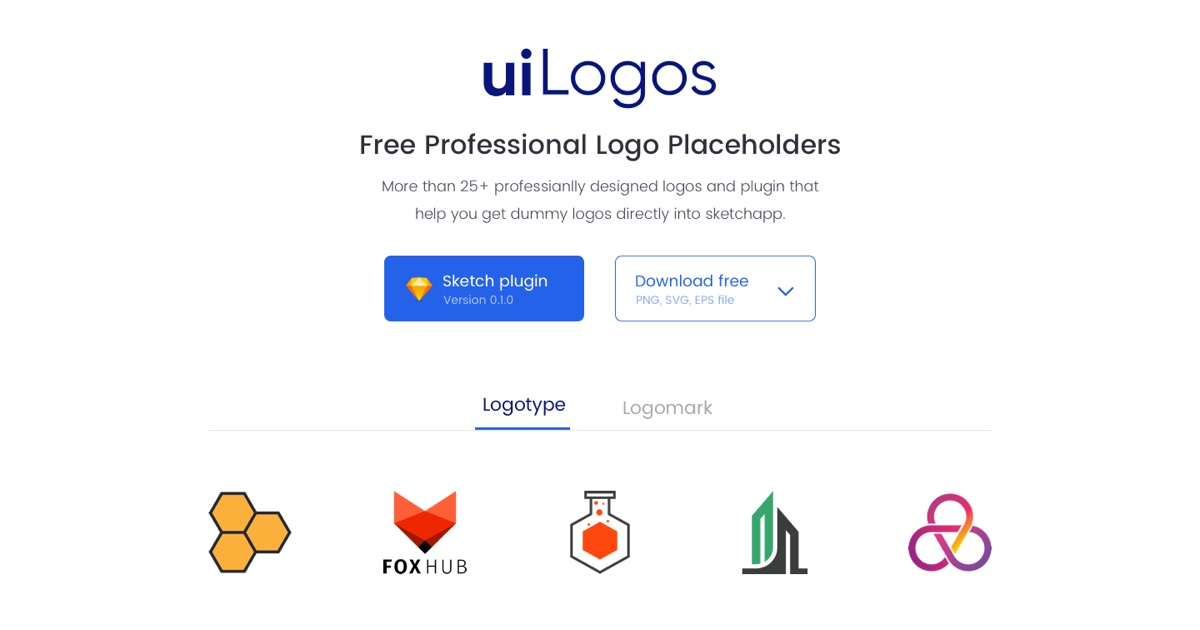
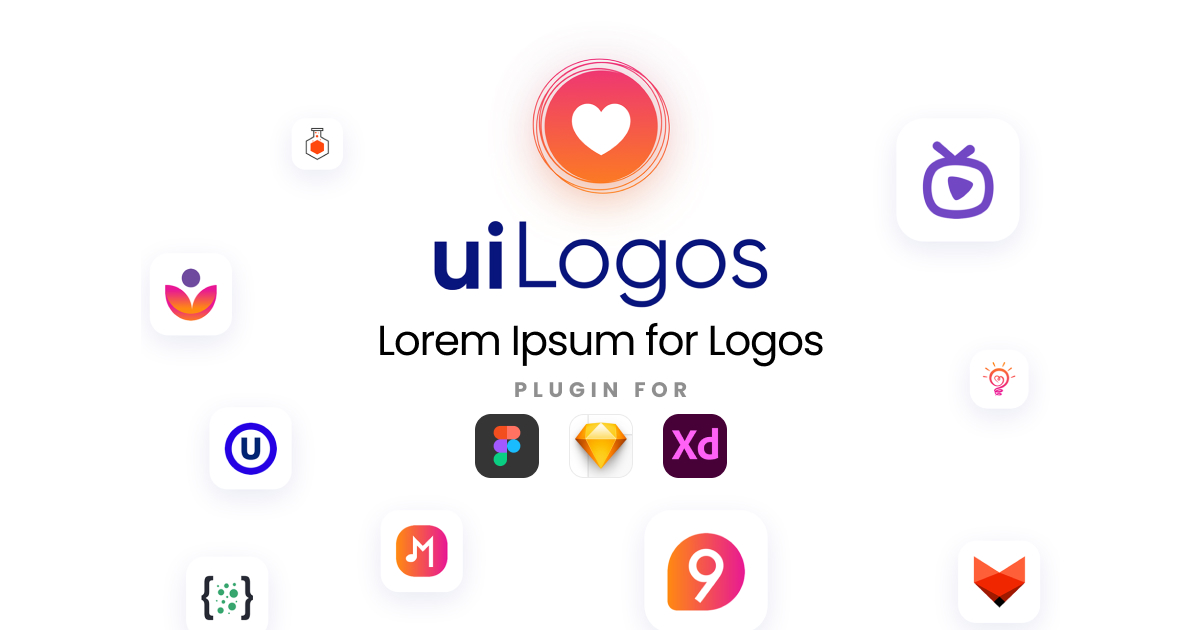
preview update

diff --git a/index.html b/index.html
@@ -4,22 +4,22 @@
 <head>
 
   <meta name="description"
-    content="Sketch Plugin - Insert professionally designed dummy logos of company directly into SketchApp | Download free Professional logos for design mockup" />
+    content="Figma, XD and Sketch Plugin - Insert professionally designed dummy logos of company directly into SketchApp | Download free Professional logos for design mockup" />
   <meta charset="utf-8" />
 
   <meta name="viewport" content="width=device-width, initial-scale=1.0, minimum-scale=1.0" />
-  <meta name="keywords" content="uilogos, logos, sketchapp, sketch, ui, plugin, sketchplugin, realvjy" />
-  <meta property="og:image" content="https://vijayverma.co/uilogos/img/preview.jpg" />
-  <meta property="og:title" content="uiLogos - Free logos for mockup | Sketch Plugin" />
+  <meta name="keywords" content="uilogos, logos, sketchapp, sketch,figma plugin, ui, plugin, sketchplugin, realvjy" />
+  <meta property="og:image" content="https://uilogos.co/img/preview.jpg" />
+  <meta property="og:title" content="uiLogos - Lorem Ipsum for Logos | Figma | Sketch | XD Plugin" />
   <meta property="og:type" content="webiste" />
   <meta property="og:url" content="https://uilogos.co" />
-  <meta property="og:description" content="Sketch plugin - insert professionally designed logos in design" />
+  <meta property="og:description" content="uiLogos - Lorem Ipsum for Logos | Figma | Sketch | XD Plugin" />
 
   <meta name="twitter:card" content="summary_large_image">
   <meta name="twitter:url" content="https://uilogos.co">
-  <meta name="twitter:title" content="uiLogos - Free logos for mockup | Sketch Plugin">
+  <meta name="twitter:title" content="uiLogos - Lorem Ipsum for Logos | Figma | Sketch | XD Plugin">
   <meta name="twitter:creator" content="@realvjy">
-  <meta name="twitter:image" content="https://vijayverma.co/uilogos/img/preview.jpg">
+  <meta name="twitter:image" content="https://uilogos.co/img/preview.jpg">
 
   <title>uiLogos - Free logos for design | sketch plugin</title>
   <link rel="icon" href="img/favicon-64x64.png">
@@ -361,7 +361,7 @@
     </section>
 
     <section class="patron">
-     
+
     </section>
 
     <footer>

diff --git a/figma.html b/figma.html
@@ -7,17 +7,17 @@
 
   <meta name="viewport" content="width=device-width, initial-scale=1.0, minimum-scale=1.0" />
   <meta name="keywords" content="uilogos, logos, Figmaapp, Figma, ui, plugin, Figmaplugin, realvjy" />
-  <meta property="og:image" content="https://vijayverma.co/uilogos/img/preview.jpg" />
+  <meta property="og:image" content="https://uilogos.co/img/figma-preview.jpg" />
   <meta property="og:title" content="uiLogos - Free logos for mockup | Figma Plugin" />
   <meta property="og:type" content="webiste" />
-  <meta property="og:url" content="https://uilogos.co" />
+  <meta property="og:url" content="https://uilogos.co/figma" />
   <meta property="og:description" content="Figma plugin - insert professionally designed logos in design" />
 
   <meta name="twitter:card" content="summary_large_image">
-  <meta name="twitter:url" content="https://uilogos.co">
+  <meta name="twitter:url" content="https://uilogos.co/figma">
   <meta name="twitter:title" content="uiLogos - Free logos for mockup | Figma Plugin">
   <meta name="twitter:creator" content="@realvjy">
-  <meta name="twitter:image" content="https://vijayverma.co/uilogos/img/preview.jpg">
+  <meta name="twitter:image" content="https://uilogos.co/img/figma-preview.jpg">
 
   <title>uiLogos | Figma plugin</title>
   <link rel="icon" href="img/favicon-64x64.png">
@@ -63,7 +63,7 @@
 <noscript><iframe src="https://www.googletagmanager.com/ns.html?id=GTM-PZ57P56"
   height="0" width="0" style="display:none;visibility:hidden"></iframe></noscript>
   <!-- End Google Tag Manager (noscript) -->
-  
+
 
   <nav class="f-nav">
     <div class="f-container">
